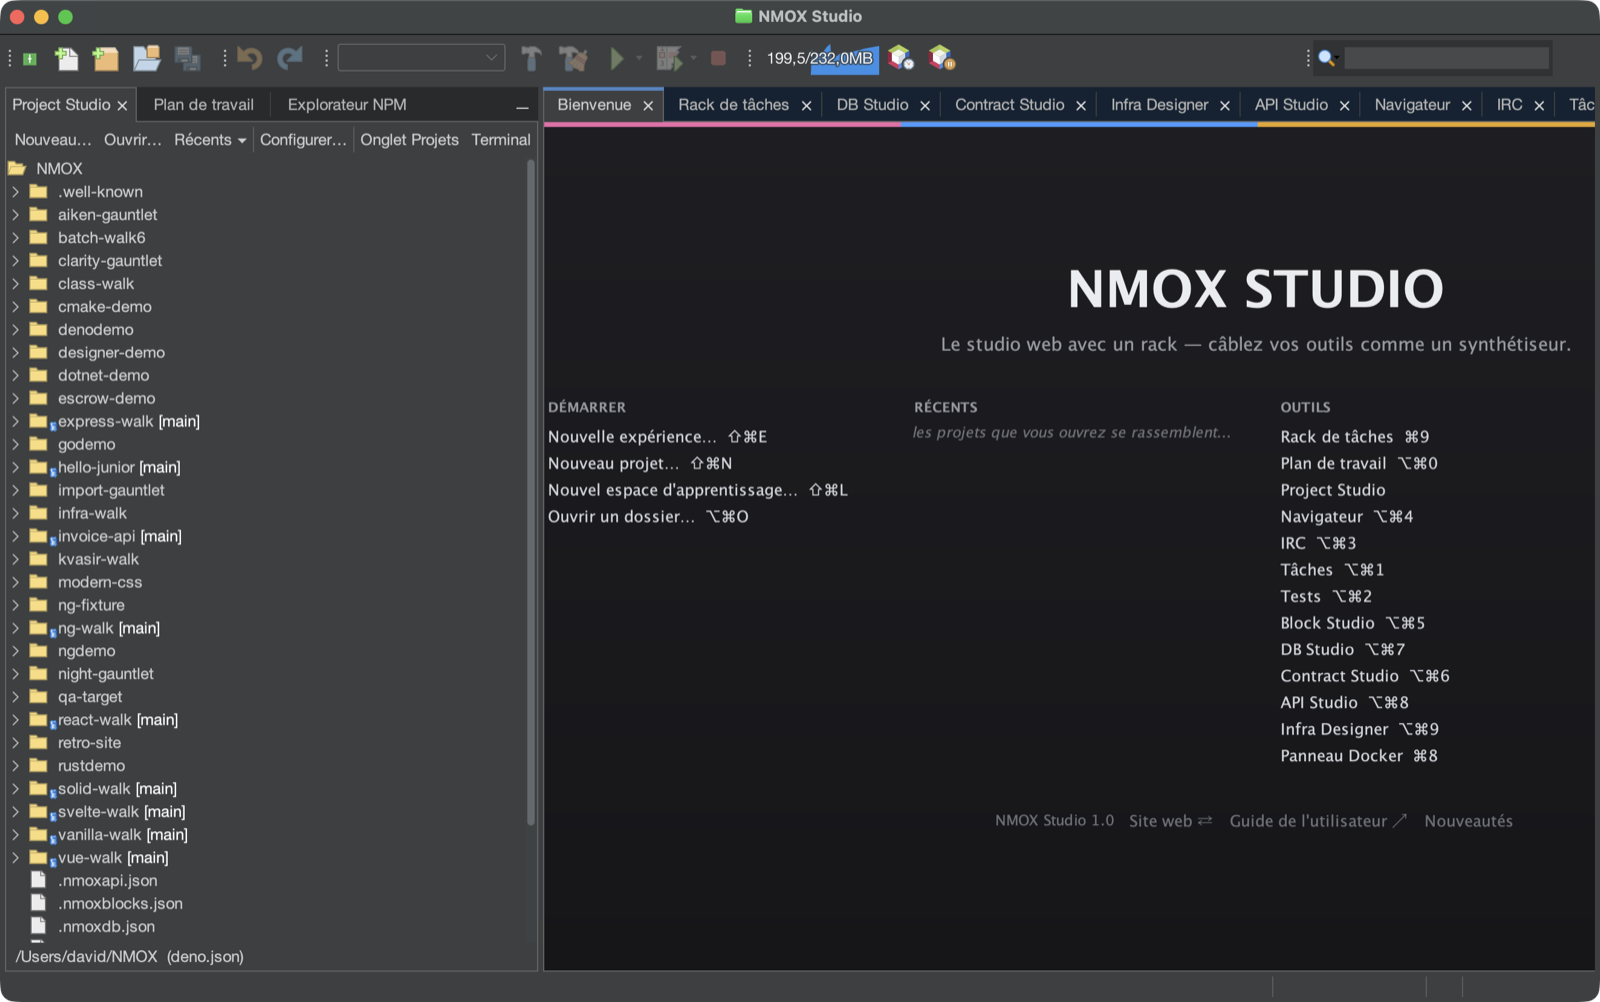
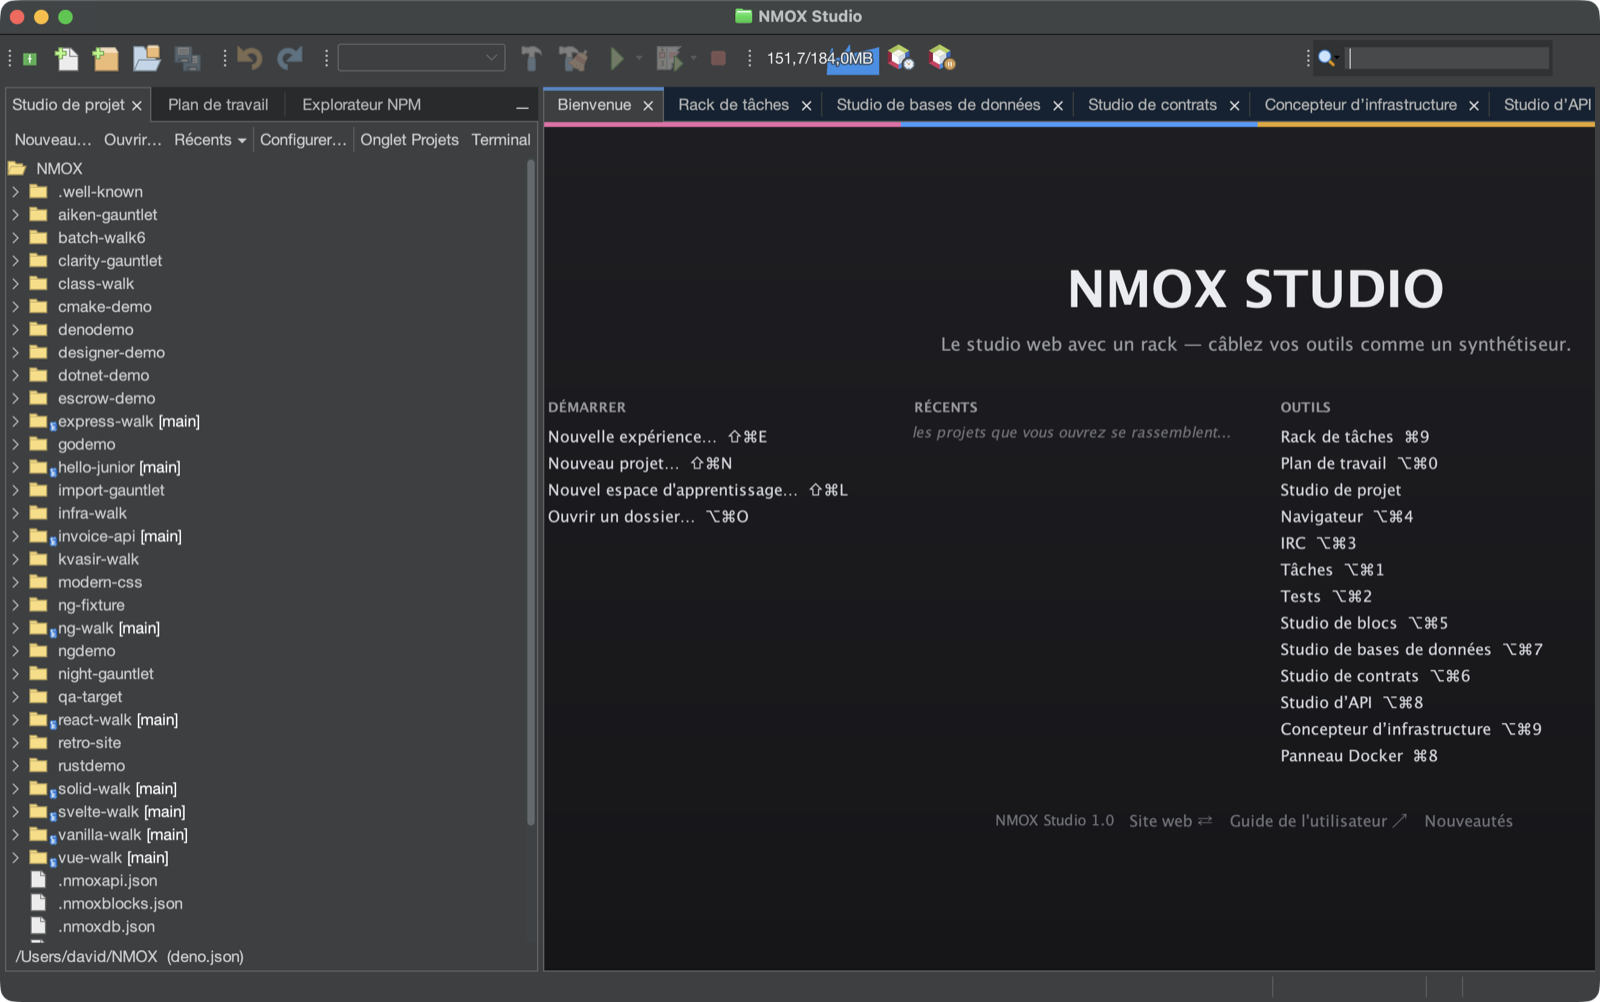
docs: all four localization screenshots retaken from the shipped bytes (v2.98.0) — the French and Russian shots predated the studio-name sweep and still showed English tabs; Hindi joins them, and its own shot caught the NPM Explorer window untranslated in Hindi and German (both fixed)

diff --git a/README.md b/README.md
@@ -239,11 +239,13 @@ status lines, Welcome, Options — speaks English, Español, Français,
 Deutsch, Русский, Українська and हिन्दी; pick yours in Options ▸ General ▸
 Language and restart. Rack faceplates keep their panel vocabulary on purpose.
 
-![NMOX Studio running in French: the Welcome reading DÉMARRER, RÉCENTS and OUTILS, tabs for Rack de tâches and Navigateur, and the project pane's Nouveau / Ouvrir / Récents menu](docs/images/i18n-welcome-fr.png)
+![NMOX Studio in French: the launchpad reads DÉMARRER, RÉCENTS and OUTILS, and the tabs read Bienvenue, Rack de tâches, Studio de bases de données, Studio de contrats and Concepteur d’infrastructure](docs/images/i18n-welcome-fr.png)
 
-![The same product started in Russian: НАЧАЛО, НЕДАВНИЕ and ИНСТРУМЕНТЫ on the Welcome, Добро пожаловать and Стойка задач as tab names, Рабочее место and Браузер in the tooling column](docs/images/i18n-welcome-ru.png)
+![The same build in Russian: НАЧАЛО, НЕДАВНИЕ and ИНСТРУМЕНТЫ on the Welcome, with Добро пожаловать, Стойка задач, Студия баз данных and Студия контрактов as tabs](docs/images/i18n-welcome-ru.png)
 
-![The same build started in Ukrainian: ПОЧАТОК, НЕДАВНІ and ІНСТРУМЕНТИ on the Welcome, Ласкаво просимо and Стійка задач as tabs, and the studios reading Студія баз даних, Студія контрактів and Конструктор інфраструктури](docs/images/i18n-welcome-uk.png)
+![The same build in Ukrainian: ПОЧАТОК, НЕДАВНІ and ІНСТРУМЕНТИ, with Ласкаво просимо, Стійка задач, Студія баз даних and Конструктор інфраструктури as tabs](docs/images/i18n-welcome-uk.png)
+
+![The same build in Hindi: शुरुआत, हाल के and टूलिंग on the Welcome, with स्वागत, टास्क रैक, डेटाबेस स्टूडियो and कॉन्ट्रैक्ट स्टूडियो as tabs](docs/images/i18n-welcome-hi.png)
 
 - **The toolbar's ▶** runs the aimed project the way its toolchain runs,
   and **the ■ beside Debug** stops every command the product started for

diff --git a/docs/user-guide.md b/docs/user-guide.md
@@ -1552,15 +1552,13 @@ keymaps never costs you the studio chords.
   STOP, EXPLAIN — the hardware labels, like a synth's), and the platform's
   own deeper dialogs, which have no bundles in these languages yet.
 
-![NMOX Studio started with the French locale: the whole launchpad, the tab
-names and the project pane's own menu are French, and the menu bar reads
-Fichier, Édition, Affichage, Naviguer, Source, Exécuter, Déboguer, Équipe,
-Outils, Fenêtre, Aide](images/i18n-welcome-fr.png)
+![NMOX Studio in French: the launchpad reads DÉMARRER, RÉCENTS and OUTILS, and the tabs read Bienvenue, Rack de tâches, Studio de bases de données, Studio de contrats and Concepteur d’infrastructure](images/i18n-welcome-fr.png)
 
-![The same build started in Russian, with Файл, Правка, Вид, Переход and
-Сервис on the menu bar and Добро пожаловать as the Welcome tab](images/i18n-welcome-ru.png)
+![The same build in Russian: НАЧАЛО, НЕДАВНИЕ and ИНСТРУМЕНТЫ on the Welcome, with Добро пожаловать, Стойка задач, Студия баз данных and Студия контрактов as tabs](images/i18n-welcome-ru.png)
 
-![The same build started in Ukrainian, with Файл, Редагування, Вигляд, Перехід and Інструменти on the menu bar and the studios reading Студія баз даних and Студія контрактів](images/i18n-welcome-uk.png)
+![The same build in Ukrainian: ПОЧАТОК, НЕДАВНІ and ІНСТРУМЕНТИ, with Ласкаво просимо, Стійка задач, Студія баз даних and Конструктор інфраструктури as tabs](images/i18n-welcome-uk.png)
+
+![The same build in Hindi: शुरुआत, हाल के and टूलिंग on the Welcome, with स्वागत, टास्क रैक, डेटाबेस स्टूडियो and कॉन्ट्रैक्ट स्टूडियो as tabs](images/i18n-welcome-hi.png)
 - **Daily update check** — quiet, once a day; a newer release shows a
   notification whose click opens the Plugin Manager on its Updates tab,
   where the update center installs the new modules in place
